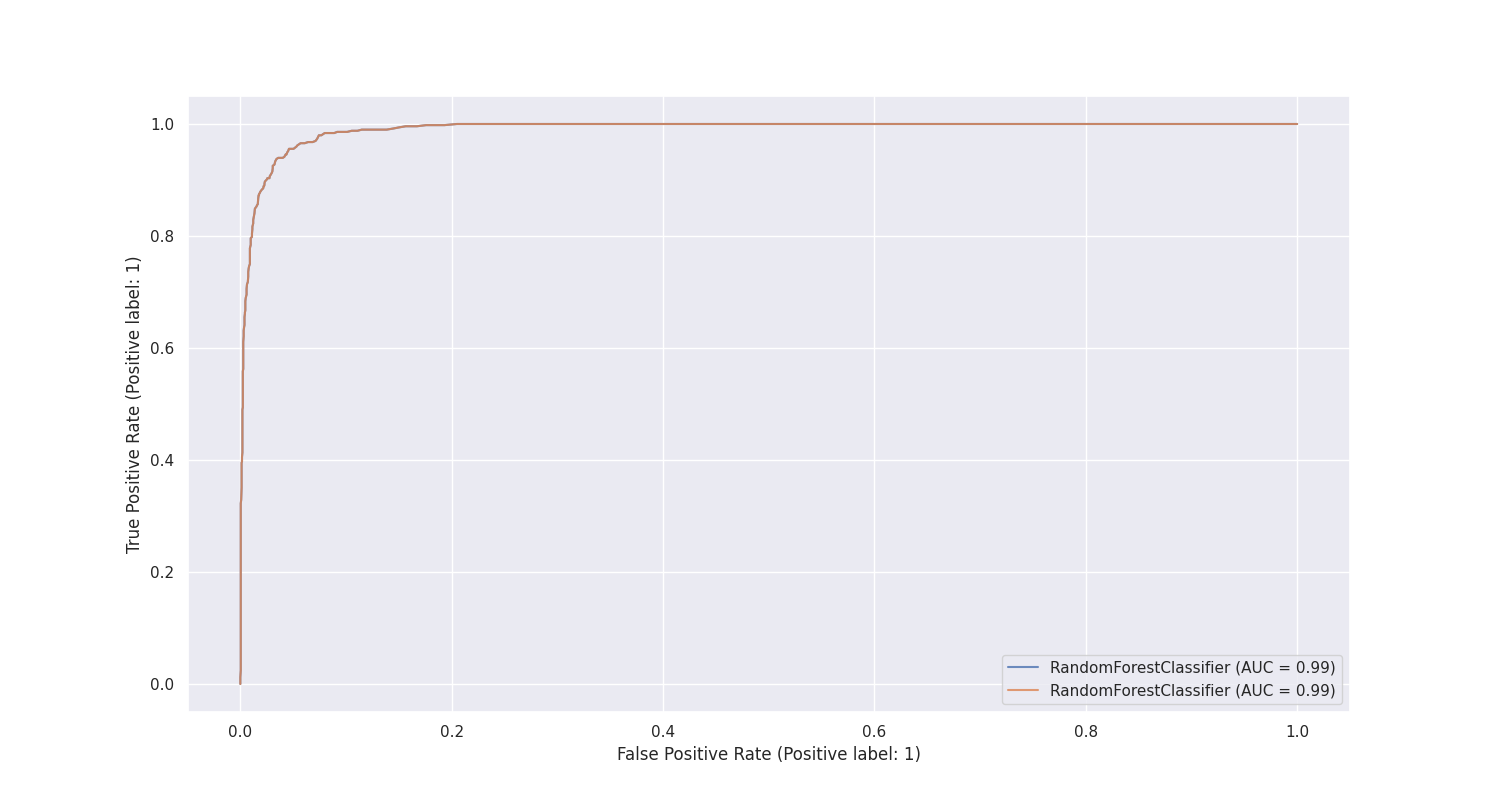
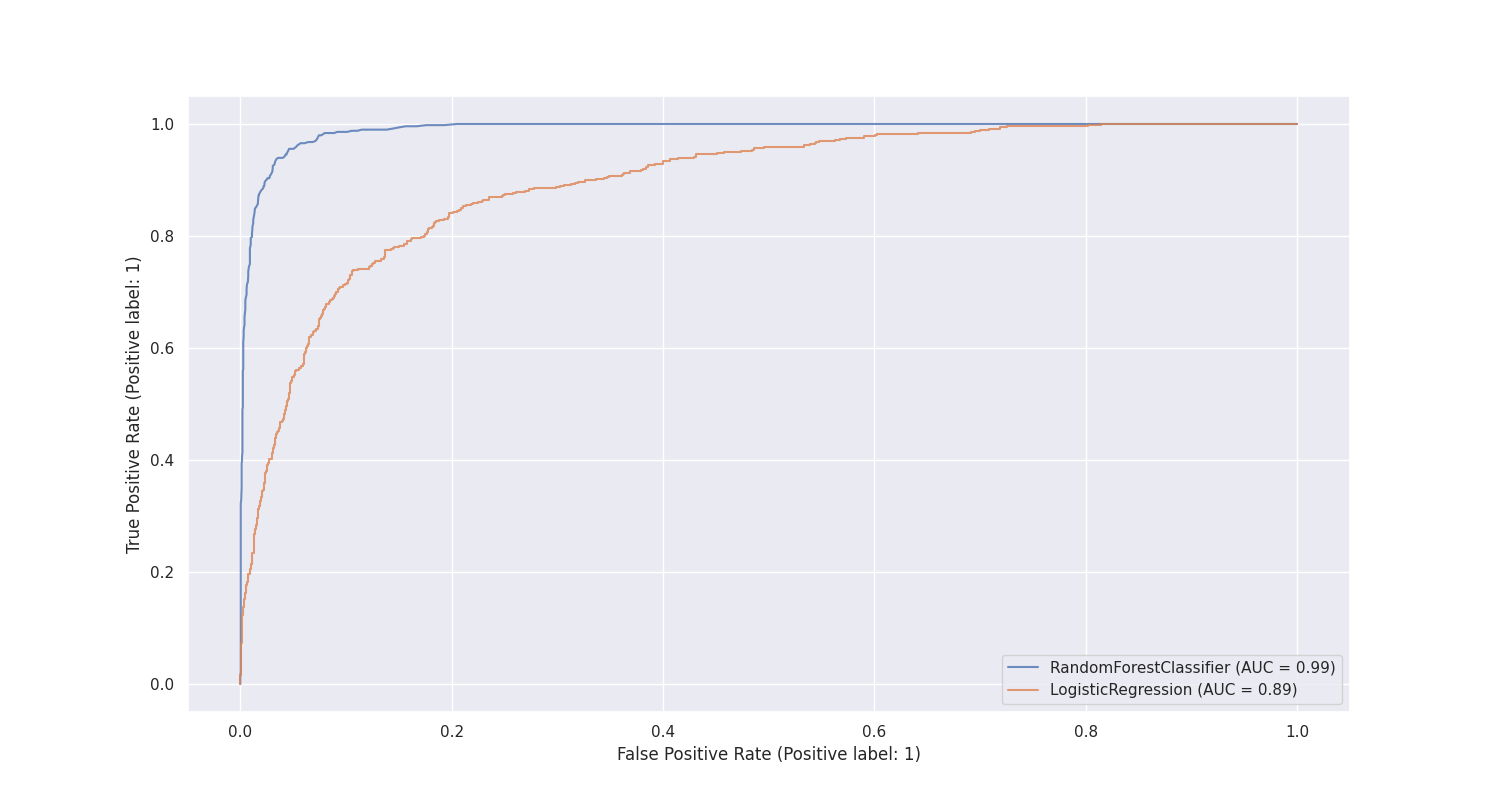
adding logs folder, adding missing ROC curves and missing doc

Changed region(s): [[0.7053, 0.8438, 0.8893, 0.875], [0.1533, 0.5625, 0.184, 0.75], [0.2147, 0.1562, 0.276, 0.1875]]

diff --git a/churn_script_logging_and_tests.py b/churn_script_logging_and_tests.py
@@ -1,4 +1,16 @@
-'''Description: This script is used to test the functions in the churn_library.py script'''
+"""
+This is the Python Test for the churn_library.py module.
+
+This module will be used to test
+    1. import_data
+    2. peform_eda
+    3. encode_data
+    4. perform_feature_engineering
+    5. train_test_model
+
+Author: Eduardo Aviles
+Date: Apr 05, 2023
+"""
 import os
 from pathlib import Path
 import logging
@@ -26,7 +38,9 @@ def path():
 
 
 def check_data_frame(data_frame):
-    ''' checks if data frame is a pandas data frame and has rows and columns '''
+    ''' checks if data frame is a pandas data frame and has rows and columns 
+        input:  data_frame: pandas data frame
+    '''
     assert isinstance(data_frame, pd.DataFrame)
     try:
         assert data_frame.shape[0] > 0

diff --git a/churn_library.py b/churn_library.py
@@ -1,4 +1,8 @@
-''' Description: This file contains all the functions that are used in the churn notebook '''
+''' 
+Description: This file contains all the functions that are used in the churn notebook 
+Author: Eduardo Aviles
+Date: Apr 05, 2023
+'''
 import logging
 # import libraries
 import os
@@ -279,7 +283,8 @@ def train_models(X_train, X_test, y_train, y_test):
                                 y_test_preds_lr,
                                 y_test_preds_rf)
     # save ROC curve
-    lrc_plot = plot_roc_curve(cv_rfc.best_estimator_, X_test, y_test)
+    
+    lrc_plot = plot_roc_curve(lrc, X_test, y_test)
     plt.figure(figsize=(15, 8))
     axes = plt.gca()
     _ = plot_roc_curve(cv_rfc.best_estimator_, X_test,
